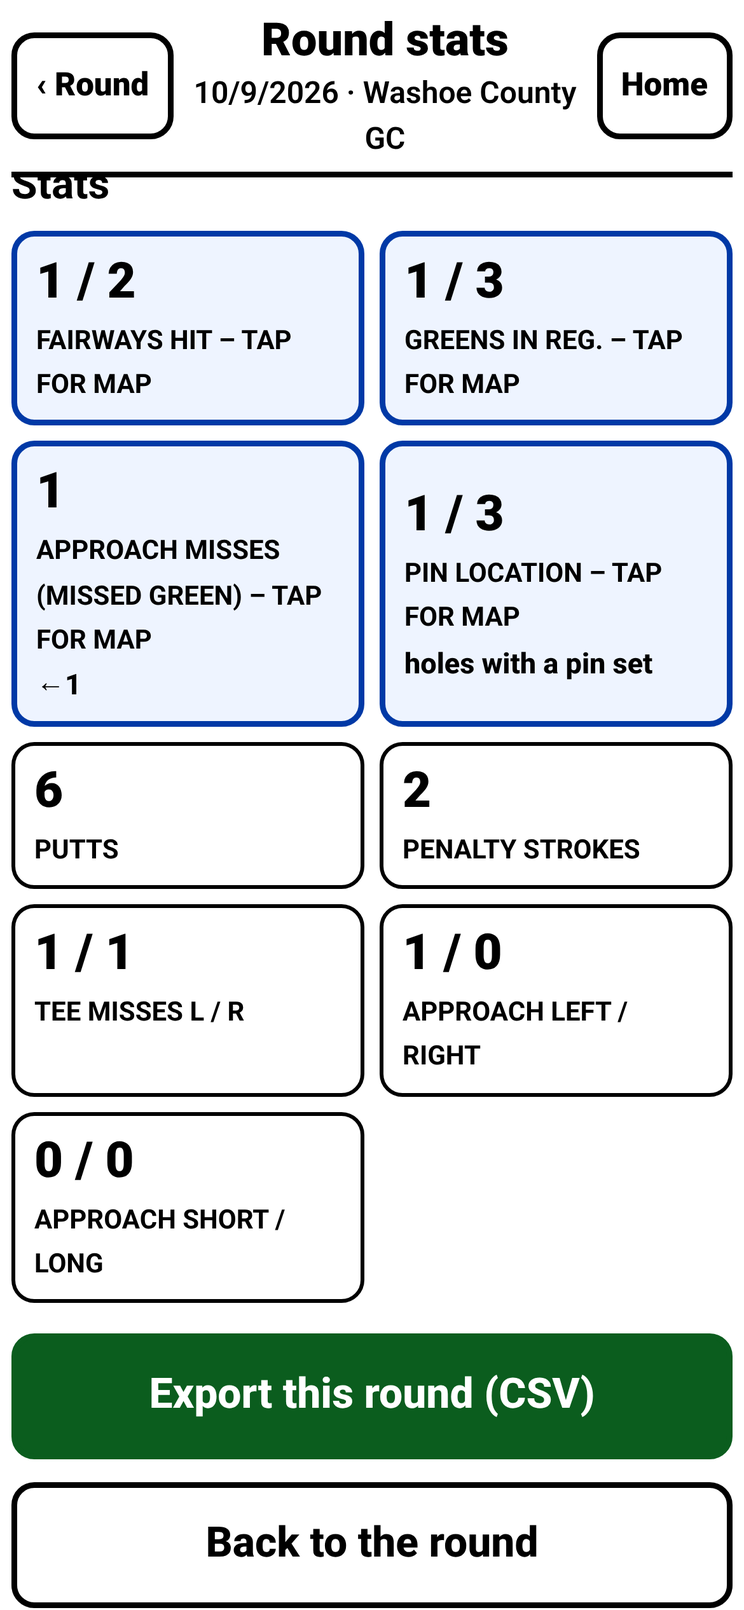
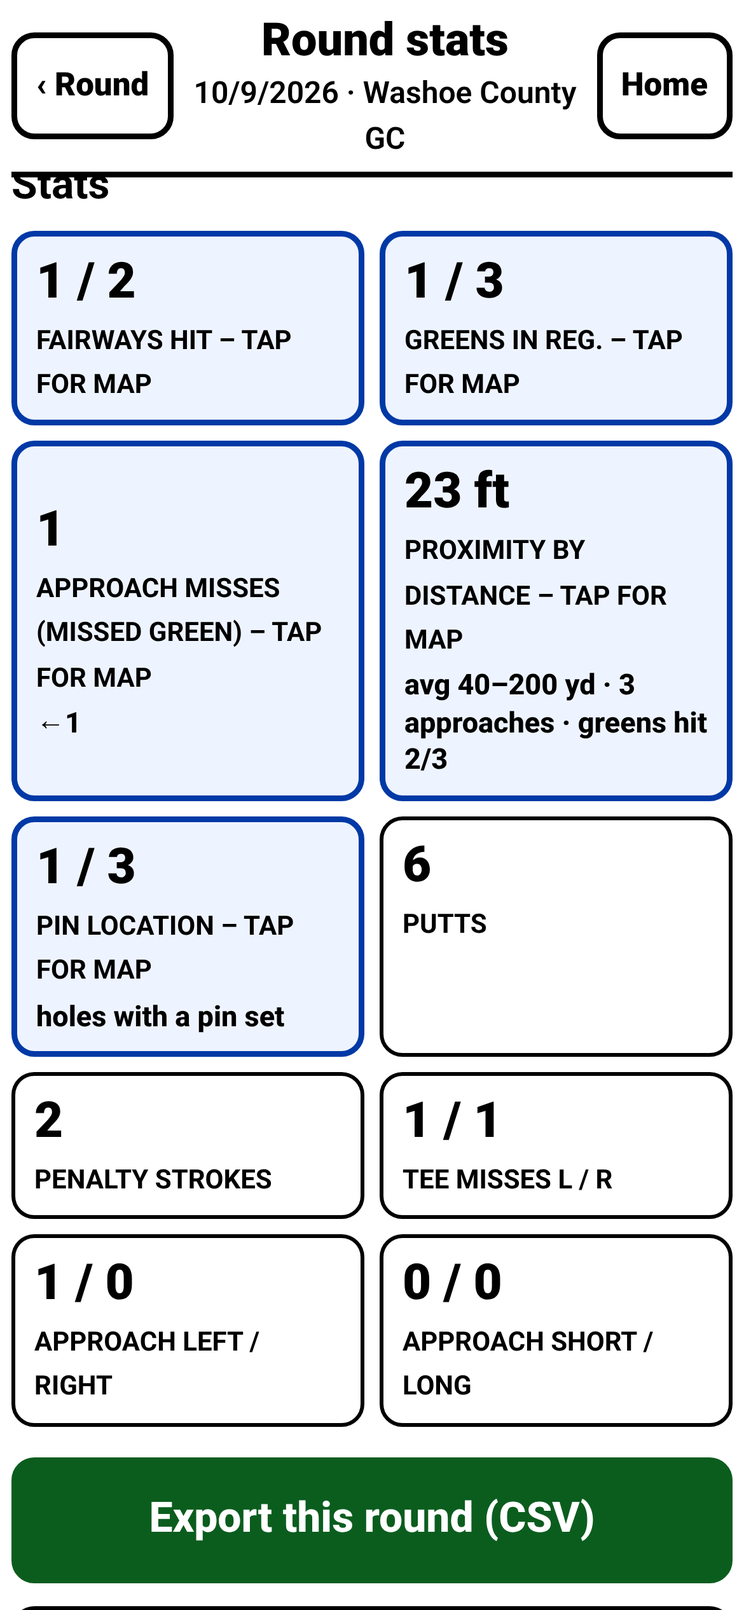
v11: Proximity by distance tile + full-window map (10-yd buckets 40-200, blue hits/red misses, stats, misses by direction); tests; SW v11

Changed region(s): [[0.0, 0.2808, 0.9846, 1.0]]

diff --git a/app.js b/app.js
@@ -258,6 +258,7 @@
       tile('fw', 'Fairways hit – tap for map', S.fwHit + ' / ' + S.fwTotal) +
       tile('gir', 'Greens in reg. – tap for map', S.gir + ' / ' + S.girHoles) +
       tile('miss', 'Approach misses (missed green) – tap for map', S.apprMiss.length, missMini(S.apprMiss)) +
+      proxTile(S) +
       tile('pin', 'Pin location – tap for map', S.pinHoles.length + ' / ' + S.holesDone, '<small class="mini">holes with a pin set</small>') +
       stat('Putts', S.putts) + stat('Penalty strokes', S.penalties) +
       stat('Tee misses L / R', S.teeLeft + ' / ' + S.teeRight) +
@@ -338,7 +339,7 @@
   // ---------- maps (full-window overlays) ----------
   function mapData(kind) {
     var list = [], n = 0;
-    if (kind === 'pin') return { list: [], rounds: 0 };
+    if (kind === 'pin' || kind === 'prox') return { list: [], rounds: 0 };
     var src = view.mapScope === 'all' ? rounds : [round()];
     src.forEach(function (r) {
       var S = SG.summarize(r, 'pga'); n++;
@@ -411,11 +412,12 @@
   var DIR_ORDER = ['short', 'shortleft', 'shortright', 'left', 'right', 'long', 'longleft', 'longright'];
   function mapHTML() {
     var kind = view.map, D = mapData(kind), list = D.list, all = view.mapScope === 'all';
-    var out = '<div class="mapview" id="mapview" role="dialog" aria-label="' + (kind === 'gir' ? 'GIR map' : kind === 'fw' ? 'Fairway map' : kind === 'pin' ? 'Pin location map' : 'Approach miss map') + '">' +
-      '<div class="maphead"><b>' + (kind === 'gir' ? 'Greens in regulation' : kind === 'fw' ? 'Tee shots – fairways' : kind === 'pin' ? 'Pin location' : 'Approach misses') + '</b><button class="close" data-act="mapclose" aria-label="Close map">✕ Close</button></div>' +
+    var out = '<div class="mapview" id="mapview" role="dialog" aria-label="' + (kind === 'gir' ? 'GIR map' : kind === 'fw' ? 'Fairway map' : kind === 'pin' ? 'Pin location map' : kind === 'prox' ? 'Proximity map' : 'Approach miss map') + '">' +
+      '<div class="maphead"><b>' + (kind === 'gir' ? 'Greens in regulation' : kind === 'fw' ? 'Tee shots – fairways' : kind === 'pin' ? 'Pin location' : kind === 'prox' ? 'Proximity by distance' : 'Approach misses') + '</b><button class="close" data-act="mapclose" aria-label="Close map">✕ Close</button></div>' +
       '<div class="seg"><button data-act="mapscope" data-v="round" class="' + (all ? '' : 'sel') + '">This round</button>' +
       '<button data-act="mapscope" data-v="all" class="' + (all ? 'sel' : '') + '">All rounds (' + rounds.length + ')</button></div>';
     if (kind === 'pin') out += pinMapHTML(all);
+    else if (kind === 'prox') out += proxHTML(all);
     else if (kind === 'fw') out += fwHTML(list, all, D);
     else if (kind === 'gir') {
       var far = list.filter(function (m) { return m.ft > 30; }).length, holed = list.filter(function (m) { return m.holed; }).length;
@@ -511,6 +513,98 @@
     out += '</table><p class="help muted">Every tee shot on a par 4 or 5 (finished holes only), drawn from the tee to the distance it went (hole length minus the distance left). ' +
       'Left/right comes from the Dir you entered on row 2. Fairway hit = first tee shot finished on the fairway or green with no penalty. Bird\'s-eye view: the fairway runs away from you.</p>';
     return out;
+  }
+  // ---------- proximity by distance ----------
+  function fmtFt(v) { return v == null ? '–' : Math.round(v) + ' ft'; }
+  function proxTile(S) {
+    var L = S.proxList.filter(function (m) { return SG.inBucket('all', m.from); }), P = SG.proxStats(L);
+    return tile('prox', 'Proximity by distance – tap for map', P.n ? fmtFt(P.avgAllFt) : '–',
+      '<small class="mini">avg 40–200 yd · ' + P.n + ' approach' + (P.n === 1 ? '' : 'es') + (P.n ? ' · greens hit ' + P.hits + '/' + P.n : '') + '</small>');
+  }
+  function proxData() {
+    var b = view.proxB || 'all', list = [], n = 0;
+    (view.mapScope === 'all' ? rounds : [round()]).forEach(function (r) {
+      n++; SG.summarize(r, 'pga').proxList.forEach(function (m) { if (SG.inBucket(b, m.from)) list.push(m); });
+    });
+    return { list: list, rounds: n, bucket: b };
+  }
+  var PX = { cx: 180, cy: 235, K: 3.2, Rg: 106, W: 360, H: 540 };
+  function proxSVG(list) {
+    var out = '<svg id="proxmap" viewBox="0 0 360 540" role="img" aria-label="Approach proximity">' +
+      '<rect width="360" height="540" fill="#cfe8c4"/><circle cx="' + PX.cx + '" cy="' + PX.cy + '" r="' + PX.Rg + '" fill="#3da33d" stroke="#145214" stroke-width="4"/>';
+    [30, 25, 20, 15, 10, 5].forEach(function (ft) {
+      out += '<circle cx="' + PX.cx + '" cy="' + PX.cy + '" r="' + ft * PX.K + '" fill="none" stroke="#fff" stroke-width="' + (ft % 10 ? 1.3 : 2.2) + '" stroke-opacity=".85"/>' +
+        '<text class="ring" x="' + f1(PX.cx + 2 + ft * PX.K * 0.707) + '" y="' + f1(PX.cy + 12 + ft * PX.K * 0.707) + '" font-size="11" font-weight="800" fill="#fff">' + ft + '</text>';
+    });
+    out += '<circle cx="' + PX.cx + '" cy="' + PX.cy + '" r="5" fill="#000"/><line x1="' + PX.cx + '" y1="' + PX.cy + '" x2="' + PX.cx + '" y2="' + (PX.cy - 28) + '" stroke="#000" stroke-width="3"/>' +
+      '<path d="M' + PX.cx + ' ' + (PX.cy - 28) + ' l18 6 l-18 6z" fill="#d0213a"/>';
+    var seen = {}, tr = '', dots = '', labels = '', pend = [], nd = 0, LN = { rough: 'Rough', deep: 'Deep rough', fairway: 'Fairway', sand: 'Bunker', hazard: 'Hazard', ob: 'OB', recovery: 'Trees' };
+    // labels avoid each other, the dots and the canvas edge: try below, above, right, left, then further out
+    var boxes = [], hit2 = function (b) { return boxes.some(function (o) { return b[0] < o[2] && b[2] > o[0] && b[1] < o[3] && b[3] > o[1]; }); };
+    var lbl = function (x, y, t1, t2, col) {
+      var w = Math.max(t1.length, (t2 || '').length) * 6.6 + 4, h = t2 ? 23 : 12, best = null;
+      [[0, 19], [0, -12 - h], [10 + w / 2, 4 - h / 2], [-10 - w / 2, 4 - h / 2], [0, 32], [0, -25 - h], [16 + w / 2, 16 - h / 2], [-16 - w / 2, 16 - h / 2], [0, 45], [0, -38 - h]].some(function (o) {
+        var cx = Math.max(w / 2 + 2, Math.min(PX.W - w / 2 - 2, x + o[0])), ty = y + o[1], b = [cx - w / 2, ty - 10, cx + w / 2, ty - 10 + h];
+        if (!best) best = [cx, ty, b];
+        if (!hit2(b)) { best = [cx, ty, b]; return true; }
+      });
+      boxes.push(best[2]); var cx = best[0], ty = best[1];
+      return '<text class="xlbl" x="' + f1(cx) + '" y="' + f1(ty) + '" text-anchor="middle" font-size="11" font-weight="900" fill="' + col + '" stroke="#fff" stroke-width="3" paint-order="stroke">' + esc(t1) +
+        (t2 ? '<tspan x="' + f1(cx) + '" dy="11">' + esc(t2) + '</tspan>' : '') + '</text>';
+    };
+    var clampXY = function (q) { return [Math.max(14, Math.min(PX.W - 14, q[0])), Math.max(14, Math.min(PX.H - 60, q[1]))]; };
+    list.forEach(function (m, i) {
+      var col = m.hit ? '#1e6fd9' : '#e0102a', q, kind, clamped = false, label, label2 = '';
+      if (m.hit) {
+        if (m.holed) { var jh = seen.h = (seen.h || 0) + 1; q = [PX.cx - 14 + (jh - 1) * 14, PX.cy + 14]; kind = 'holed'; label = ''; }
+        else {
+          var nod = !m.dir, rr = Math.min(m.ft, 32) * PX.K, key = (m.dir || 'n') + Math.round(rr / 8), j = seen[key] = (seen[key] || 0) + 1;
+          q = pt(PX.cx, PX.cy, rr, (nod ? 90 : SG.DIR_ANGLE[m.dir]) + (j - 1) * 7); kind = nod ? 'hitnodir' : 'hit';
+          label = Math.round(m.ft) + ' ft' + (m.chipIn ? ' (chip-in)' : ''); clamped = m.ft > 32;
+        }
+      } else if (!m.dir) {
+        q = [PX.W - 22 - (nd % 6) * 26, PX.H - 92 - Math.floor(nd / 6) * 34]; nd++; kind = 'missnodir';
+        label = m.lie === 'ob' ? 'OB' : Math.round(m.yd) + ' yd';
+      } else {
+        var r0 = m.ft == null ? PX.Rg + 30 : Math.max(m.ft * PX.K, PX.Rg + 14), jm = seen['m' + m.dir] = (seen['m' + m.dir] || 0) + 1;
+        var raw = pt(PX.cx, PX.cy, r0, SG.DIR_ANGLE[m.dir] + (jm - 1) * 8); q = clampXY(raw); clamped = q[0] !== raw[0] || q[1] !== raw[1];
+        kind = 'miss'; label = m.lie === 'ob' ? 'OB' : Math.round(m.yd) + ' yd' + (clamped ? ' ›' : ''); label2 = m.lie === 'ob' ? '' : (LN[m.lie] || m.lie);
+      }
+      var x = f1(q[0]), y = f1(q[1]), ox = 180 + ((i * 29) % 9 - 4) * 6, oy = PX.H - 46;
+      if (kind !== 'missnodir') tr += '<path class="tracer" d="M' + ox + ' ' + oy + ' Q' + f1((ox + q[0]) / 2 + (q[0] - ox) * 0.15) + ' ' + f1(q[1] + (oy - q[1]) * 0.35) + ' ' + x + ' ' + y + '" fill="none" stroke="' + col + '" stroke-width="2.5" stroke-opacity=".75"/>';
+      var attrs = ' class="xdot" data-kind="' + kind + '" data-hole="' + m.hole + '" data-from="' + m.from + '"' + (clamped ? ' data-clamped="1"' : '');
+      if (kind === 'holed') dots += '<path' + attrs + ' d="M' + x + ' ' + (y - 10) + ' l3 6.5 7 .8 -5.3 4.8 1.5 7 -6.2 -3.6 -6.2 3.6 1.5 -7 -5.3 -4.8 7 -.8z" fill="#ffd23f" stroke="#1e6fd9" stroke-width="2"/>';
+      else if (kind === 'hitnodir' || kind === 'missnodir') dots += '<g' + attrs + ' data-x="' + x + '" data-y="' + y + '"><path d="M' + x + ' ' + (y - 10) + ' l10 10 -10 10 -10 -10z" fill="' + col + '" stroke="#000" stroke-width="2"/><text x="' + x + '" y="' + (+y + 4.5) + '" text-anchor="middle" font-size="12" font-weight="900" fill="#fff">?</text></g>';
+      else dots += '<circle' + attrs + ' cx="' + x + '" cy="' + y + '" r="6.5" fill="' + col + '" stroke="#000" stroke-width="2"/>';
+      if (label) pend.push([q[0], q[1], label, label2, m.hit ? '#0b3d91' : '#9b0016']);
+      boxes.push([q[0] - 8, q[1] - 10, q[0] + 8, q[1] + 10]);
+    });
+    pend.forEach(function (p) { labels += lbl(p[0], p[1], p[2], p[3], p[4]); });
+    out += tr + dots + labels + '<text x="180" y="16" text-anchor="middle" font-size="13" font-weight="800">LONG ↑</text>' +
+      '<rect x="150" y="' + (PX.H - 50) + '" width="60" height="16" rx="4" fill="#9be08a" stroke="#fff"/><text x="180" y="' + (PX.H - 22) + '" text-anchor="middle" font-size="13" font-weight="800">YOU (shots come from here)</text>' +
+      '<text x="6" y="16" font-size="13" font-weight="800">◀ LEFT</text><text x="354" y="16" text-anchor="end" font-size="13" font-weight="800">RIGHT ▶</text>' +
+      (nd ? '<text x="' + (PX.W - 8) + '" y="' + (PX.H - 112 - Math.floor((nd - 1) / 6) * 34) + '" text-anchor="end" font-size="11" font-weight="800">missed, no direction</text>' : '');
+    return out + '</svg>';
+  }
+  function proxHTML(all) {
+    var D = proxData(), L = D.list, P = SG.proxStats(L), miss = L.filter(function (m) { return !m.hit; });
+    var opts = SG.PROX_BUCKETS.map(function (b) { return '<option value="' + b.id + '"' + (b.id === D.bucket ? ' selected' : '') + '>' + b.name + '</option>'; }).join('');
+    var scope = all ? ' in ' + D.rounds + ' round' + (D.rounds === 1 ? '' : 's') : ' this round';
+    return '<label class="lbl" for="proxsel">Approach from</label><select id="proxsel" class="blsel" data-f="proxb">' + opts + '</select>' +
+      '<p class="mapsum" id="mapsum"><b>' + P.n + '</b> approach' + (P.n === 1 ? '' : 'es') + scope + '</p>' +
+      '<div class="stat-grid" id="proxstats">' +
+      stat('Shots', P.n) + stat('Greens hit', P.n ? P.hits + ' / ' + P.n + ' (' + Math.round(P.hitPct) + '%)' : '–') +
+      stat('Avg proximity – greens hit', fmtFt(P.avgHitFt)) + stat('Avg proximity – all', fmtFt(P.avgAllFt)) + '</div>' +
+      proxSVG(L) +
+      '<div class="legend"><span><i class="ln" style="background:#1e6fd9"></i><i class="dot" style="background:#1e6fd9"></i>Hit the green – first-putt distance (ft) + direction from the hole</span>' +
+      '<span><i class="ln" style="background:#e0102a"></i><i class="dot" style="background:#e0102a"></i>Missed the green – in the miss direction, distance to the pin at the same scale; label = yards left + lie (› = further than the picture, drawn at the edge)</span>' +
+      '<span><svg width="20" height="20" viewBox="0 0 20 20" style="flex:none"><path d="M10 1 l9 9 -9 9 -9 -9z" fill="#888" stroke="#000" stroke-width="2"/><text x="10" y="14.5" text-anchor="middle" font-size="12" font-weight="900" fill="#fff">?</text></svg>No direction entered: blue = hit (straight up at the right distance), red = miss (bottom-right corner)</span>' +
+      '<span><b class="star">★</b>Holed out</span><span>White rings: 5–30 ft from the hole</span></div>' +
+      '<h3>Misses by direction</h3>' + dirTable(miss).replace('(not plotted)', '(drawn as ?)') +
+      '<p class="help muted">One approach per hole: the shot that reached the green if it was hit from more than 30 yd, otherwise the last shot from more than 30 yd (it missed the green). ' +
+      'Hit/miss here is that shot\'s own result (not regulation), so it can differ from the GIR and Pin maps. A chip-in from 30 yd or closer counts as reaching the green (its proximity = the chip distance). ' +
+      'Proximity: greens hit = first-putt feet; misses = yards left × 3; OB has no proximity and is left out of the averages. Ranges: 10-yd buckets by the yardage the approach was hit from (40–50 means 40 up to 49; 190–200 includes 200). ' +
+      'Only finished holes count.</p>';
   }
   // ---------- pin-location map ----------
   // ONE entry per finished hole with a pin set (its approach into the green - see SG keyApproach)
@@ -728,6 +822,7 @@
   }
   document.addEventListener('change', function (ev) {
     var t = ev.target, f = t.getAttribute('data-f'); if (!f) return;
+    if (f === 'proxb') { view.proxB = t.value; render(); return; }
     if (f === 'baseline') { if (t.id === 'sumbl') setBaseline(t.value); return; }
     var h = round().holes[view.hole], k = +t.getAttribute('data-k'), row = h.rows[k];
     if (f === 'loc') {

diff --git a/sg.js b/sg.js
@@ -284,6 +284,26 @@
       lie: hit ? 'green' : (r.ob ? 'ob' : (onG || r.end.lie === 'holed') ? 'green' : r.end.lie), dist: hit ? 0 : r.end.dist,
       unit: !hit && onG ? 'ft' : 'yd', from: r.start.dist };
   }
+  /**
+   * Proximity map: the hole's ONE approach judged by its own RESULT (not by regulation):
+   *  - the shot that reached the green (reach-green rule) if it was hit from more than 30 yd -> hit;
+   *  - otherwise the last shot from more than 30 yd before it -> it missed the green.
+   * Proximity in feet: on the green = first-putt distance; holed = 0; chip-in after it (ball was
+   * off the green, then holed from <= 30 yd) = that distance in yards x 3; missed = yards left x 3.
+   * OB has no proximity (null).
+   */
+  function proxApproach(out) {
+    var far = function (r) { return r.start.lie !== 'green' && r.start.dist > 30; };
+    var fr = -1; for (var i = 0; i < out.length; i++) { if (reachedGreen(out[i])) { fr = i; break; } }
+    var k = -1, hit = false;
+    if (fr >= 0 && far(out[fr])) { k = fr; hit = true; }
+    else { for (var j = (fr >= 0 ? fr : out.length) - 1; j >= 0; j--) { if (far(out[j])) { k = j; break; } } }
+    if (k < 0) return null;
+    var r = out[k], holed = hit && r.end.lie === 'holed', chipIn = hit && !holed && r.loc === 'holedx';
+    var ft = r.ob ? null : holed ? 0 : (hit && !chipIn) ? r.end.dist : r.end.dist * 3;
+    return { shot: r.n, from: r.start.dist, fromLie: r.start.lie, hit: hit, holed: holed, chipIn: chipIn, dir: holed ? '' : r.dir,
+      ft: ft, lie: hit ? 'green' : (r.ob ? 'ob' : r.end.lie), yd: hit ? null : (r.ob ? null : r.end.dist), pen: r.penStrokes > 0 };
+  }
   function analyzeHole(hole, baseline) {
     var bad = null, problem = '', complete = null, finished = true, rowsFmt = !!hole.rows, nRows = 0, liveStrokes = 0;
     if (rowsFmt) {
@@ -345,20 +365,34 @@
       rows: nRows, liveStrokes: rowsFmt ? liveStrokes : shots.length + penalties,
       strokes: shots.length + penalties, penalties: penalties,
       putts: out.filter(function (r) { return r.cat === 'putting'; }).length,
-      done: done, gir: gir, girShot: girShot, fairway: fairway, pin: normPin(hole.pin), appr: keyApproach(out, gir),
+      done: done, gir: gir, girShot: girShot, fairway: fairway, pin: normPin(hole.pin), appr: keyApproach(out, gir), prox: proxApproach(out),
       sg: out.reduce(function (a, r) { return a + r.sg; }, 0)
     };
   }
 
   // Where a missed tee shot ended (row loc -> map category)
   var TEE_END = { rough: 'rough', deep: 'rough', bunker: 'bunker', hazard: 'hazard', trees: 'trees', ob: 'ob', sand: 'bunker', recovery: 'trees' };
+  // Proximity buckets: 10-yd ranges 40-200 (lower bound inclusive, upper exclusive; 190-200 includes 200)
+  var PROX_BUCKETS = [];
+  for (var pb = 40; pb < 200; pb += 10) PROX_BUCKETS.push({ id: pb + '-' + (pb + 10), lo: pb, hi: pb + 10, name: pb + '–' + (pb + 10) + ' yd' });
+  PROX_BUCKETS.unshift({ id: 'all', lo: 40, hi: 200, name: 'All 40–200 yd' });
+  function inBucket(id, yd) {
+    var b = PROX_BUCKETS.filter(function (x) { return x.id === id; })[0] || PROX_BUCKETS[0];
+    return yd >= b.lo && (yd < b.hi || (b.hi === 200 && yd <= 200));
+  }
+  function proxStats(list) {
+    var hits = list.filter(function (m) { return m.hit; }), withFt = list.filter(function (m) { return m.ft != null; });
+    var avg = function (a) { return a.length ? a.reduce(function (t, m) { return t + m.ft; }, 0) / a.length : null; };
+    return { n: list.length, hits: hits.length, misses: list.length - hits.length, hitPct: list.length ? 100 * hits.length / list.length : null,
+      avgHitFt: avg(hits.filter(function (m) { return m.ft != null; })), avgAllFt: avg(withFt), noProx: list.length - withFt.length };
+  }
   function summarize(round, baseline) {
     baseline = baseline || round.baseline || 'pga';
     var S = {
       strokes: 0, par: 0, holesDone: 0, holesStarted: 0, penalties: 0, putts: 0,
       fwHit: 0, fwTotal: 0, gir: 0, girHoles: 0,
       teeLeft: 0, teeRight: 0, apprLeft: 0, apprRight: 0, apprShort: 0, apprOver: 0, allLeft: 0, allRight: 0,
-      apprMiss: [], girMap: [], teeMap: [], pinHoles: [], noPin: 0,
+      apprMiss: [], girMap: [], teeMap: [], pinHoles: [], noPin: 0, proxList: [],
       sgTotal: 0,
       cats: { tee: { sg: 0, n: 0 }, approach: { sg: 0, n: 0 }, short: { sg: 0, n: 0 }, putting: { sg: 0, n: 0 } },
       buckets: {}, holes: []
@@ -372,6 +406,7 @@
       if (!a.shots.length) return;
       S.holesStarted++;
       if (!a.done) return; // only finished holes count toward totals and stats
+      if (a.prox) { var px = { hole: hi + 1, par: Number(h.par), gir: a.gir }; for (var pk in a.prox) px[pk] = a.prox[pk]; S.proxList.push(px); }
       if (normPin(h.pin)) S.pinHoles.push({ hole: hi + 1, pin: normPin(h.pin), gir: a.gir, par: Number(h.par), appr: a.appr }); else S.noPin++;
       S.penalties += a.penalties;
       S.putts += a.putts;
@@ -530,7 +565,7 @@
   }
 
   calibrate();
-  var api = { reachedGreen: reachedGreen, PIN_GRID: PIN_GRID, PIN_NAME: PIN_NAME, normPin: normPin, DIR8: DIR8, DIR_NAME: DIR_NAME, DIR_ANGLE: DIR_ANGLE, normDir: normDir, expected: expected, expectedPGA: expectedPGA, BASELINES: BASELINES, baseline: function (id) { return BL[id] || BL.pga; },
+  var api = { PROX_BUCKETS: PROX_BUCKETS, inBucket: inBucket, proxStats: proxStats, reachedGreen: reachedGreen, PIN_GRID: PIN_GRID, PIN_NAME: PIN_NAME, normPin: normPin, DIR8: DIR8, DIR_NAME: DIR_NAME, DIR_ANGLE: DIR_ANGLE, normDir: normDir, expected: expected, expectedPGA: expectedPGA, BASELINES: BASELINES, baseline: function (id) { return BL[id] || BL.pga; },
     CALIB_ROUND: CALIB_ROUND, catLoss: catLoss, analyzeHole: analyzeHole, summarize: summarize,
     rowsToShots: rowsToShots, shotsToRows: shotsToRows, migrateV2Rows: migrateV2Rows, v1ToRows: v1ToRows, holeYards: holeYards,
     rowUnit: rowUnit, lieOf: lieOf, distOf: distOf, rowStrokes: rowStrokes, isPenalty: isPenalty,

diff --git a/tests/e2e.js b/tests/e2e.js
@@ -358,6 +358,50 @@ let passed = 0; const ok = (m) => { passed++; console.log('  ✓', m); };
   await page.locator('#mapview').evaluate(e => e.scrollTo(0, e.scrollHeight)); await page.screenshot({ path: `${SHOTS}/21b-pin-map-front-left-counts.png` });
   await act('pinseg', ''); await page.waitForSelector('#pinstats'); ok('‹ All pin positions returns to the grid');
   await act('mapclose');
+  // Proximity by distance
+  const tileExp = await page.evaluate(() => { const L = SG.summarize(window.__golf.rounds()[0]).proxList.filter(m => SG.inBucket('all', m.from)); return SG.proxStats(L); });
+  assert.match(await page.textContent('[data-act="map"][data-v="prox"]'), new RegExp('^' + Math.round(tileExp.avgAllFt) + ' ft\\s*Proximity by distance.*avg 40–200 yd · ' + tileExp.n + ' approaches · greens hit ' + tileExp.hits + '/' + tileExp.n));
+  ok(`Proximity tile: ${Math.round(tileExp.avgAllFt)} ft avg, ${tileExp.n} approaches, greens hit ${tileExp.hits}/${tileExp.n}`);
+  await page.locator('[data-act="map"][data-v="prox"]').click(); await page.waitForSelector('#proxmap');
+  const popts = await page.$$eval('#proxsel option', os => os.map(o => o.value));
+  assert.strictEqual(popts.length, 17); assert.strictEqual(popts[0], 'all'); assert.strictEqual(popts[1], '40-50'); assert.strictEqual(popts[16], '190-200');
+  assert.strictEqual(await page.$eval('#proxsel', e => e.value), 'all'); ok('range dropdown: All 40–200 + 16 ten-yard buckets 40–50 … 190–200');
+  await act('mapscope', 'all');
+  const expAll = await page.evaluate(() => { const L = []; window.__golf.rounds().forEach(r => SG.summarize(r).proxList.forEach(m => { if (SG.inBucket('all', m.from)) L.push(m); })); return { P: SG.proxStats(L), byB: SG.PROX_BUCKETS.slice(1).map(b => [b.id, L.filter(m => SG.inBucket(b.id, m.from)).length]) }; });
+  const checkView = async (P, label) => {
+    assert.match(await page.textContent('#mapsum'), new RegExp('^' + P.n + ' approach'));
+    const kinds = await page.$$eval('#proxmap .xdot', ds => ds.map(d => d.getAttribute('data-kind')));
+    assert.strictEqual(kinds.length, P.n, label + ': one marker per approach');
+    assert.strictEqual(kinds.filter(k => k === 'hit' || k === 'hitnodir' || k === 'holed').length, P.hits, label + ': blue = greens hit');
+    assert.strictEqual(kinds.filter(k => k === 'miss' || k === 'missnodir').length, P.misses, label + ': red = misses');
+    const st = await page.textContent('#proxstats');
+    assert.ok(P.n ? st.includes(P.hits + ' / ' + P.n + ' (' + Math.round(P.hitPct) + '%)') : st.includes('–'), st);
+    if (P.avgHitFt != null) assert.ok(st.includes(Math.round(P.avgHitFt) + ' ft'), st);
+    const dsum = await page.$$eval('#dirtab tr[data-dir] td.num', ts => ts.reduce((a, t) => a + +t.textContent, 0)); assert.strictEqual(dsum, P.misses, label + ': misses by direction add up');
+  };
+  await checkView(expAll.P, 'all');
+  assert.strictEqual(expAll.byB.reduce((a, b) => a + b[1], 0), expAll.P.n, 'bucket counts add up to All');
+  ok(`All 40–200 (all rounds): ${expAll.P.n} approaches, ${expAll.P.hits} hit (blue) + ${expAll.P.misses} missed (red), avg ${Math.round(expAll.P.avgHitFt)} ft on greens / ${Math.round(expAll.P.avgAllFt)} ft overall; bucket counts sum to All`);
+  await page.screenshot({ path: `${SHOTS}/24-proximity-all.png` });
+  await page.locator("#proxmap").scrollIntoViewIfNeeded(); await page.locator("#mapview").evaluate(e => { const m = document.getElementById("proxmap"); e.scrollTop += m.getBoundingClientRect().top - 8; }); await page.screenshot({ path: `${SHOTS}/24b-proximity-all-map.png` }); await page.locator("#mapview").evaluate(e => e.scrollTo(0, 0));
+  await page.selectOption('#proxsel', '150-160'); await page.waitForSelector('#proxmap');
+  const exp150 = await page.evaluate(() => { const L = []; window.__golf.rounds().forEach(r => SG.summarize(r).proxList.forEach(m => { if (SG.inBucket('150-160', m.from)) L.push(m); })); return SG.proxStats(L); });
+  assert.strictEqual(exp150.n, 3); await checkView(exp150, '150-160');
+  const froms = await page.$$eval('#proxmap .xdot', ds => ds.map(d => +d.getAttribute('data-from')));
+  assert.ok(froms.every(f => f >= 150 && f < 160), 'only shots from 150–159 yd: ' + froms);
+  const ptr = await page.$$eval('#proxmap path.tracer', ps => ps.map(p => p.getAttribute('stroke')));
+  assert.strictEqual(ptr.length, 3); assert.strictEqual(ptr.filter(c => c === '#1e6fd9').length, 2); assert.strictEqual(ptr.filter(c => c === '#e0102a').length, 1);
+  const lbls = await page.$$eval('#proxmap text.xlbl', ts => ts.map(t => t.textContent));
+  assert.ok(lbls.includes('12 ft') && lbls.includes('15 ft') && lbls.some(l => l.startsWith('25 yd') && l.endsWith('Rough')), lbls.join('|'));
+  const red = await page.$eval('#proxmap .xdot[data-kind="miss"]', c => [+c.getAttribute('cx'), +c.getAttribute('cy'), c.getAttribute('data-clamped')]);
+  assert.ok(red[0] > 180 + 106, 'missed right → right of the green'); 
+  ok('150–160 yd: 3 approaches (2 blue tracers to 12 ft / 15 ft, 1 red to the right "25 yd Rough"), only shots from 150–159 yd');
+  await page.screenshot({ path: `${SHOTS}/25-proximity-150-160.png` });
+  await page.locator('#mapview').evaluate(e => e.scrollTo(0, e.scrollHeight)); await page.screenshot({ path: `${SHOTS}/25b-proximity-150-160-counts.png` });
+  await page.selectOption('#proxsel', '40-50');
+  await checkView(await page.evaluate(() => { const L = []; window.__golf.rounds().forEach(r => SG.summarize(r).proxList.forEach(m => { if (SG.inBucket('40-50', m.from)) L.push(m); })); return SG.proxStats(L); }), '40-50');
+  await page.selectOption('#proxsel', 'all'); ok('empty / other ranges render with matching counts');
+  await act('mapclose');
   await noOverflow('summary with tiles');
   // About the numbers
   await act('about');

diff --git a/tests/sg.test.js b/tests/sg.test.js
@@ -437,3 +437,34 @@ test('pin map consistency on random rounds: badges sum = holes, hit + missed = h
     assert.strictEqual(S.girMap.length, S.gir);
   }
 });
+
+// ---- Proximity by distance ----
+test('proximity buckets: 16 ten-yard ranges 40-200 + All; edges', () => {
+  assert.strictEqual(SG.PROX_BUCKETS.length, 17); assert.strictEqual(SG.PROX_BUCKETS[0].id, 'all');
+  assert.deepStrictEqual(SG.PROX_BUCKETS.slice(1).map(b => b.id), Array.from({ length: 16 }, (_, i) => (40 + i * 10) + '-' + (50 + i * 10)));
+  assert.ok(SG.inBucket('40-50', 40)); assert.ok(!SG.inBucket('40-50', 50)); assert.ok(SG.inBucket('50-60', 50));
+  assert.ok(SG.inBucket('190-200', 200)); assert.ok(!SG.inBucket('190-200', 201)); assert.ok(!SG.inBucket('all', 39)); assert.ok(SG.inBucket('all', 200));
+  // every yardage 40..200 is in exactly one 10-yd bucket
+  for (let y = 40; y <= 200; y += 0.5) assert.strictEqual(SG.PROX_BUCKETS.slice(1).filter(b => SG.inBucket(b.id, y)).length, 1, 'y=' + y);
+});
+
+test('proximity: one approach per hole, judged by its own result; ft for hits, yd x3 for misses; OB excluded from averages', () => {
+  const S = SG.summarize({ holes: [
+    { par: 4, finished: true, rows: [R(400, 'tee'), R(150, 'fairway'), R(12, 'green', 'left'), R(1, 'holed')] },             // hit 12 ft from 150
+    { par: 4, finished: true, rows: [R(400, 'tee'), R(145, 'fairway'), R(15, 'rough', 'short'), R(4, 'green'), R(1, 'holed')] }, // miss 15 yd -> 45 ft
+    { par: 5, finished: true, rows: [R(530, 'tee'), R(250, 'fairway'), R(95, 'fairway'), R(20, 'green', 'long'), R(2, 'green'), R(1, 'holed')] }, // par 5: only the 95-yd shot
+    { par: 4, finished: true, rows: [R(380, 'tee'), R(180, 'rough'), R(60, 'rough', 'right'), R(8, 'green', 'short'), R(1, 'holed')] }, // missed from 180, then 60-yd pitch on -> the 60 (hit)
+    { par: 4, finished: true, rows: [R(360, 'tee'), R(110, 'holedx')] },                                                     // eagle: 0 ft
+    { par: 4, finished: true, rows: [R(400, 'tee'), R(160, 'fairway'), R('', 'ob', 'right'), R(10, 'green'), R(1, 'holed')] }, // OB then re-hit on -> the re-hit (hit 10 ft)
+    { par: 3, finished: true, rows: [R(160, 'tee'), R(160, 'ob', 'left'), R(25, 'bunker', 'right'), R(5, 'green'), R(1, 'holed')] } // OB, re-tee misses right into bunker
+  ] });
+  assert.deepStrictEqual(S.proxList.map(m => [m.hole, m.shot, m.from, m.hit, m.ft, m.dir, m.lie]), [
+    [1, 2, 150, true, 12, 'left', 'green'], [2, 2, 145, false, 45, 'short', 'rough'], [3, 3, 95, true, 20, 'long', 'green'],
+    [4, 3, 60, true, 8, 'short', 'green'], [5, 2, 110, true, 0, '', 'green'], [6, 3, 160, true, 10, '', 'green'], [7, 2, 160, false, 75, 'right', 'sand']]);
+  const P = SG.proxStats(S.proxList.filter(m => SG.inBucket('all', m.from)));
+  assert.strictEqual(P.n, 7); assert.strictEqual(P.hits, 5); near(P.avgHitFt, (12 + 20 + 8 + 0 + 10) / 5, 'avg hit'); near(P.avgAllFt, (12 + 45 + 20 + 8 + 0 + 10 + 75) / 7, 'avg all');
+  const B = id => S.proxList.filter(m => SG.inBucket(id, m.from)).map(m => m.hole);
+  assert.deepStrictEqual(B('140-150'), [2]); assert.deepStrictEqual(B('150-160'), [1]); assert.deepStrictEqual(B('160-170'), [6, 7]); assert.deepStrictEqual(B('60-70'), [4]);
+  // bucket counts add up to "All"
+  assert.strictEqual(SG.PROX_BUCKETS.slice(1).reduce((n, b) => n + B(b.id).length, 0), B('all').length);
+});

diff --git a/sw.js b/sw.js
@@ -1,5 +1,5 @@
 // Offline support: cache the whole app on install, serve cache-first.
-const CACHE = 'golf-sg-v10';
+const CACHE = 'golf-sg-v11';
 const ASSETS = ['./', './index.html', './styles.css', './sg.js', './app.js',
   './manifest.webmanifest', './icons/apple-touch-icon.png', './icons/icon-192.png',
   './icons/icon-512.png', './icons/icon-512-maskable.png'];

diff --git a/README.md b/README.md
@@ -57,3 +57,10 @@ All paths are relative, so it works from a sub-path like `https://user.github.io
 ## Install on iPhone
 Open the URL in Safari → Share → "Add to Home Screen". After the first load it works with no signal.
 Note: rounds are saved per web address, so keep using the same URL.
+
+## Proximity by distance (v11)
+Stats page → **Proximity by distance** tile (value = average proximity of all approaches from 40–200 yd) opens a full-window view.
+- **Range dropdown:** *All 40–200 yd* plus 16 ten-yard buckets 40–50, 50–60 … 190–200, by the yardage the approach was hit from. Lower bound inclusive, upper exclusive (140–150 = 140 up to 149); 190–200 also includes 200.
+- **Which shot (one per finished hole):** the shot that reached the green (next row Green / In the hole, or a chip-in from ≤30 yd) if it was hit from more than 30 yd; otherwise the last shot from more than 30 yd before the green was reached, which counts as a miss. Hit/miss is that shot's own result, not regulation, so a par-5 third that finds the green is a "hit" here even if it wasn't a GIR.
+- **Map:** green with white rings every 5 ft to 30 ft and room around it. Tracers come up from the bottom (the golfer). Blue = hit, placed at first-putt feet in the recorded direction, labeled in ft (★ = holed). Red = miss, placed in the miss direction at yards-left × 3 ft on the same scale, labeled yards + lie. Misses farther than the picture are clamped to the edge and marked "›". No direction entered: blue "?" straight up at the right distance, red "?" in the bottom-right corner.
+- **Stats:** shots, greens hit %, average proximity on greens hit (ft), average proximity overall (misses = yards × 3; OB has no proximity and is left out of the averages), plus misses by direction. This round / All rounds toggle.
